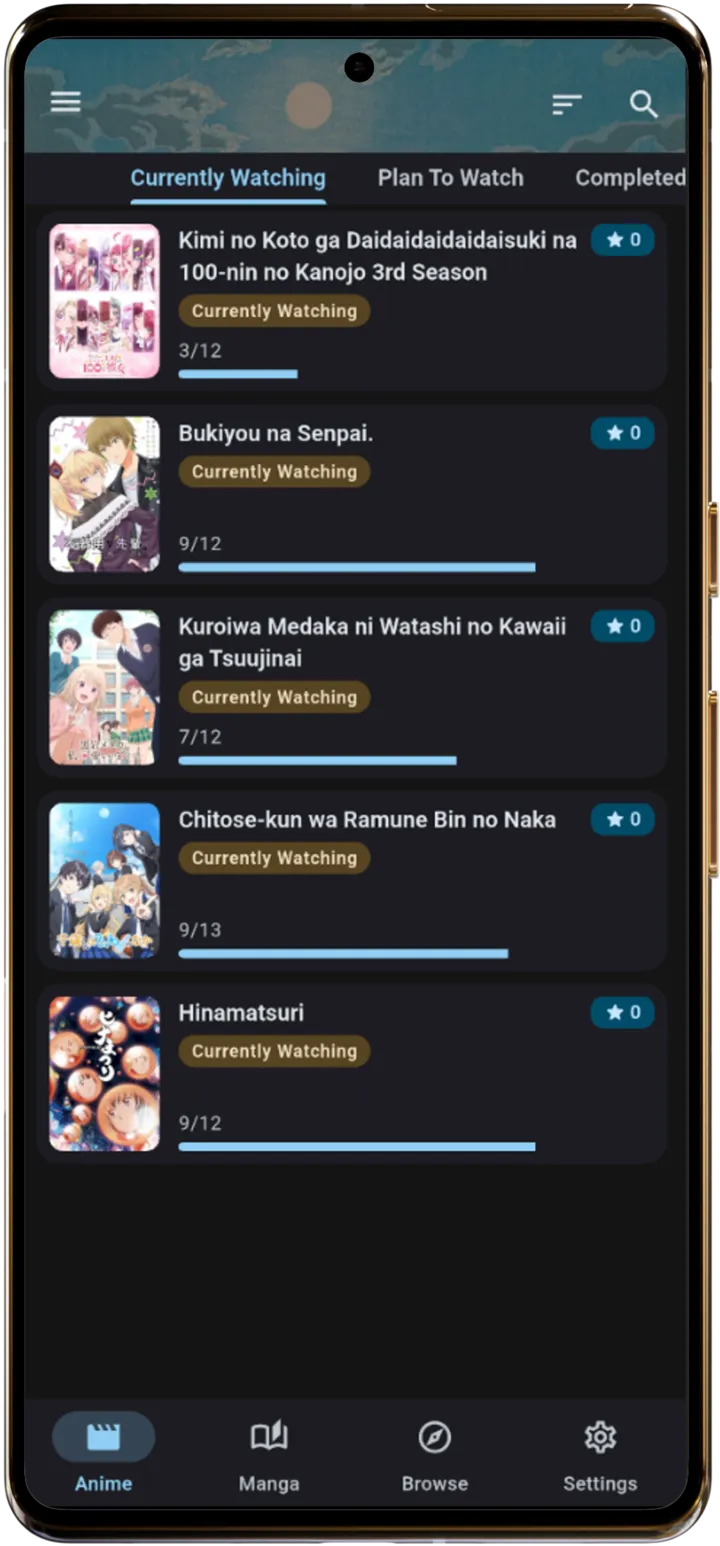
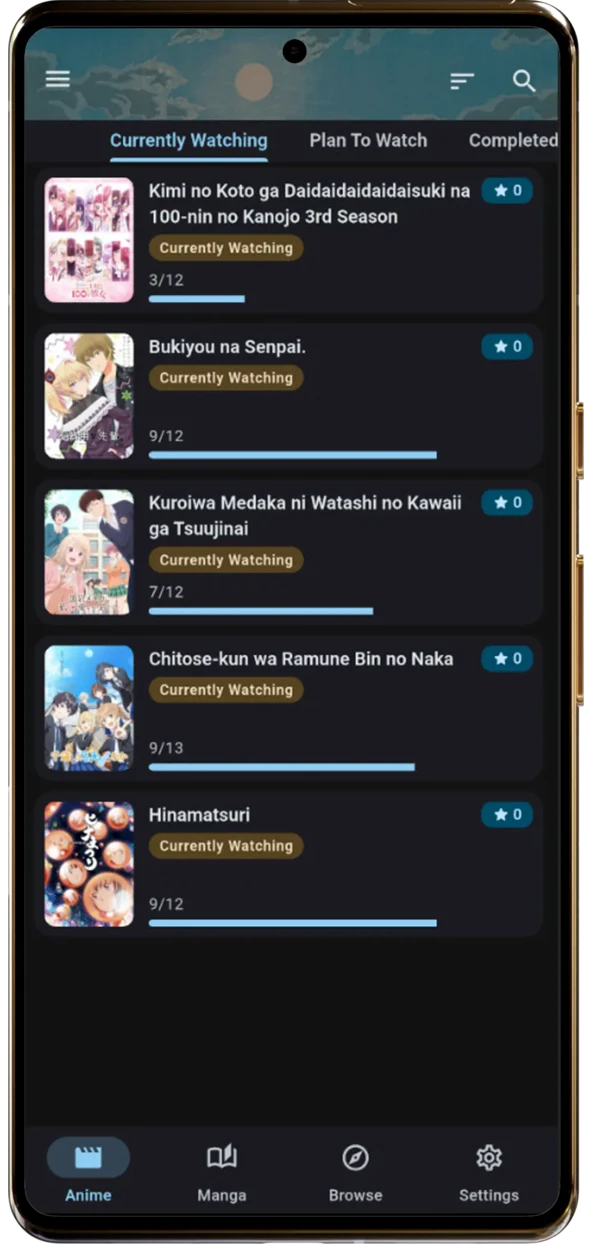
fix: screenshots not aligned

diff --git a/README.md b/README.md
@@ -5,7 +5,7 @@
 <h1 align="center">marumaro</h1>
 
 <p align="center">
-  <img src="assets/screenshots/pixel.webp" alt="Pixel" width="220">
-  <img src="assets/screenshots/s21.webp" alt="Galaxy S21" width="220">
-  <img src="assets/screenshots/s24.webp" alt="Galaxy S24" width="220">
+  <img src="assets/screenshots/pixel.webp" alt="Pixel" width="240">
+  <img src="assets/screenshots/s21.webp" alt="Galaxy S21" width="240">
+  <img src="assets/screenshots/s24.webp" alt="Galaxy S24" width="240">
 </p>
